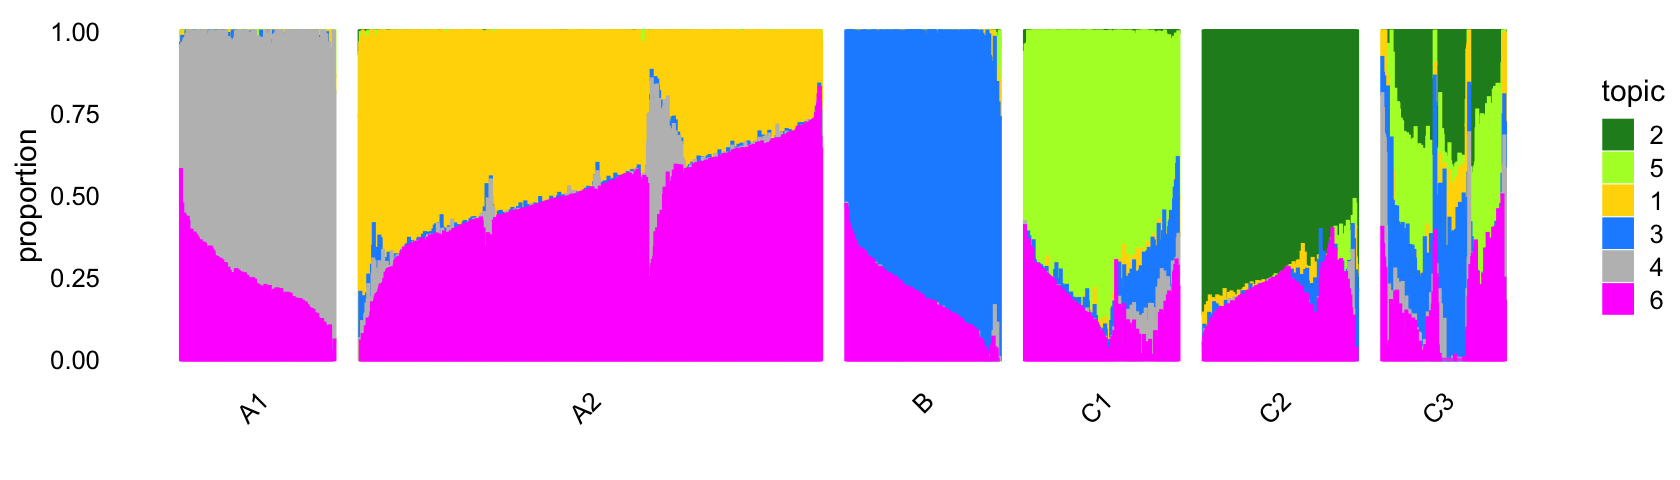
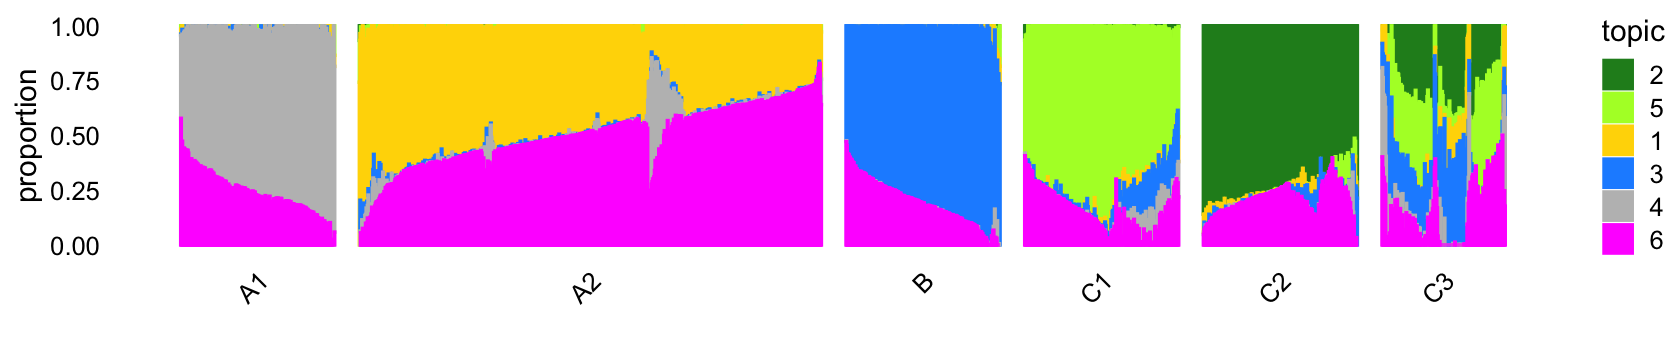
Added table comparing Zheng et al (2017) labeling with clusters in purified data.

diff --git a/docs/plots_pbmc.html b/docs/plots_pbmc.html
@@ -412,16 +412,16 @@ This reproducible <a href="http://rmarkdown.rstudio.com">R Markdown</a> analysis
 <div class="panel panel-default">
 <div class="panel-heading">
 <p class="panel-title">
-<a data-toggle="collapse" data-parent="#workflowr-checks" href="#strongRepositoryversionstrongahrefhttpsgithubcomstephenslabsinglecelltopicstreec6dd5f23d5d791a9b4f4f66fecf9365617d2be69targetblankc6dd5f2a"> <span class="glyphicon glyphicon-ok text-success" aria-hidden="true"></span> <strong>Repository version:</strong> <a href="https://github.com/stephenslab/single-cell-topics/tree/c6dd5f23d5d791a9b4f4f66fecf9365617d2be69" target="_blank">c6dd5f2</a> </a>
+<a data-toggle="collapse" data-parent="#workflowr-checks" href="#strongRepositoryversionstrongahrefhttpsgithubcomstephenslabsinglecelltopicstree9cd4a08b3c3352eaed9f8fdf09d0f1ce0a1276c3targetblank9cd4a08a"> <span class="glyphicon glyphicon-ok text-success" aria-hidden="true"></span> <strong>Repository version:</strong> <a href="https://github.com/stephenslab/single-cell-topics/tree/9cd4a08b3c3352eaed9f8fdf09d0f1ce0a1276c3" target="_blank">9cd4a08</a> </a>
 </p>
 </div>
[2 lines of base64/hex data omitted]
 <div class="panel-body">
 <p>
 Great! You are using Git for version control. Tracking code development and connecting the code version to the results is critical for reproducibility.
 </p>
 <p>
-The results in this page were generated with repository version <a href="https://github.com/stephenslab/single-cell-topics/tree/c6dd5f23d5d791a9b4f4f66fecf9365617d2be69" target="_blank">c6dd5f2</a>. See the <em>Past versions</em> tab to see a history of the changes made to the R Markdown and HTML files.
+The results in this page were generated with repository version <a href="https://github.com/stephenslab/single-cell-topics/tree/9cd4a08b3c3352eaed9f8fdf09d0f1ce0a1276c3" target="_blank">9cd4a08</a>. See the <em>Past versions</em> tab to see a history of the changes made to the R Markdown and HTML files.
 </p>
 <p>
 Note that you need to be careful to ensure that all relevant files for the analysis have been committed to Git prior to generating the results (you can use <code>wflow_publish</code> or <code>wflow_git_commit</code>). workflowr only checks the R Markdown file, but you know if there are other scripts or data files that it depends on. Below is the status of the Git repository when the results were generated:
@@ -478,6 +478,40 @@ Message
 </tr>
 </thead>
 <tbody>
+<tr>
+<td>
+Rmd
+</td>
+<td>
+<a href="https://github.com/stephenslab/single-cell-topics/blob/9cd4a08b3c3352eaed9f8fdf09d0f1ce0a1276c3/analysis/plots_pbmc.Rmd" target="_blank">9cd4a08</a>
+</td>
+<td>
+Peter Carbonetto
+</td>
+<td>
+2020-08-22
+</td>
+<td>
+workflowr::wflow_publish(“plots_pbmc.Rmd”)
+</td>
+</tr>
+<tr>
+<td>
+html
+</td>
+<td>
+<a href="https://rawcdn.githack.com/stephenslab/single-cell-topics/c87ddf8d946c9c5b08d51f7aa13e49181182062f/docs/plots_pbmc.html" target="_blank">c87ddf8</a>
+</td>
+<td>
+Peter Carbonetto
+</td>
+<td>
+2020-08-22
+</td>
+<td>
+Added PBMC purified structure plot with the new clustering (A1, A2, B,
+</td>
+</tr>
 <tr>
 <td>
 Rmd
@@ -1170,7 +1204,7 @@ table(samples_purified$cluster)
 # 
 #    A1    A2     B    C1    C2    C3 
 #  8146 64468 10439  7822  2990   790</code></pre>
-<p>The Structure plot gives a visual summary of topic proportions in each of these six clusters:</p>
+<p>The Structure plot gives a compact visual summary of topic proportions in each of these six clusters:</p>
 <pre class="r"><code>set.seed(1)
 pbmc_purified_topics       &lt;- c(2,5,1,3,4,6)
 pbmc_purified_topic_colors &lt;- c(&quot;gold&quot;,&quot;forestgreen&quot;,&quot;dodgerblue&quot;,
@@ -1212,6 +1246,17 @@ Date
 <tbody>
 <tr>
 <td>
+<a href="https://github.com/stephenslab/single-cell-topics/blob/c87ddf8d946c9c5b08d51f7aa13e49181182062f/docs/figure/plots_pbmc.Rmd/pbmc-purified-structure-plot-1.png" target="_blank">c87ddf8</a>
+</td>
+<td>
+Peter Carbonetto
+</td>
+<td>
+2020-08-22
+</td>
+</tr>
+<tr>
+<td>
 <a href="https://github.com/stephenslab/single-cell-topics/blob/7900d171e513796cb2e56f95abf713355845a5ae/docs/figure/plots_pbmc.Rmd/pbmc-purified-structure-plot-1.png" target="_blank">7900d17</a>
 </td>
 <td>
@@ -1247,6 +1292,20 @@ Peter Carbonetto
 </table>
 </div>
 </div>
+<p>Compare these clusters with the Zheng <em>et al</em> (2017) cell-type labeling:</p>
+<pre class="r"><code>with(samples_purified,table(celltype,cluster))
+#                               cluster
+# celltype                          A1    A2     B    C1    C2    C3
+#   CD19+ B                          0     3 10073     0     1     8
+#   CD14+ Monocyte                   0    30     8     1  2443   130
+#   CD34+                            3    44   352  7740   545   548
+#   CD4+ T Helper2                   0 11184     0    16     0    13
+#   CD56+ NK                      8129   234     0    17     1     4
+#   CD8+ Cytotoxic T                13 10143     0     0     0    53
+#   CD4+/CD45RO+ Memory              0 10201     0    19     0     4
+#   CD8+/CD45RA+ Naive Cytotoxic     1 11945     3     0     0     4
+#   CD4+/CD45RA+/CD25- Naive T       0 10441     1    25     0    12
+#   CD4+/CD25 T Reg                  0 10243     2     4     0    14</code></pre>
 <p>Next, we turn to the 68k fit.</p>
 <pre class="r"><code>fit &lt;- poisson2multinom(fit_68k)
 pca &lt;- prcomp(fit$L)$x</code></pre>
@@ -1372,7 +1431,6 @@ p4 &lt;- structure_plot(select(poisson2multinom(fit_68k),loadings = rows),
                      gap = 40,num_threads = 4,verbose = FALSE)
 print(p4)</code></pre>
 <p><strong>TO DO:</strong> Before comparing to Zheng et al (2017) labeling, do more manual identification of clusters from the PCA plots.</p>
-<pre class="r"><code>with(samples_purified,table(celltype,cluster))</code></pre>
 <p>Comparison to Zheng et al (2017) cell-type labeling of the FACS-purified PBMC data. In <code>fit_purified</code>, cluster 2 captures B-cells; cluster 3 is almost exclusively CD34+ and CD14+ monocytes:</p>
 <p>Now let’s look more closely at cluster 1 in <code>fit_purified</code>:</p>
 <pre class="r"><code>par(mar = c(0,0,0,0))
